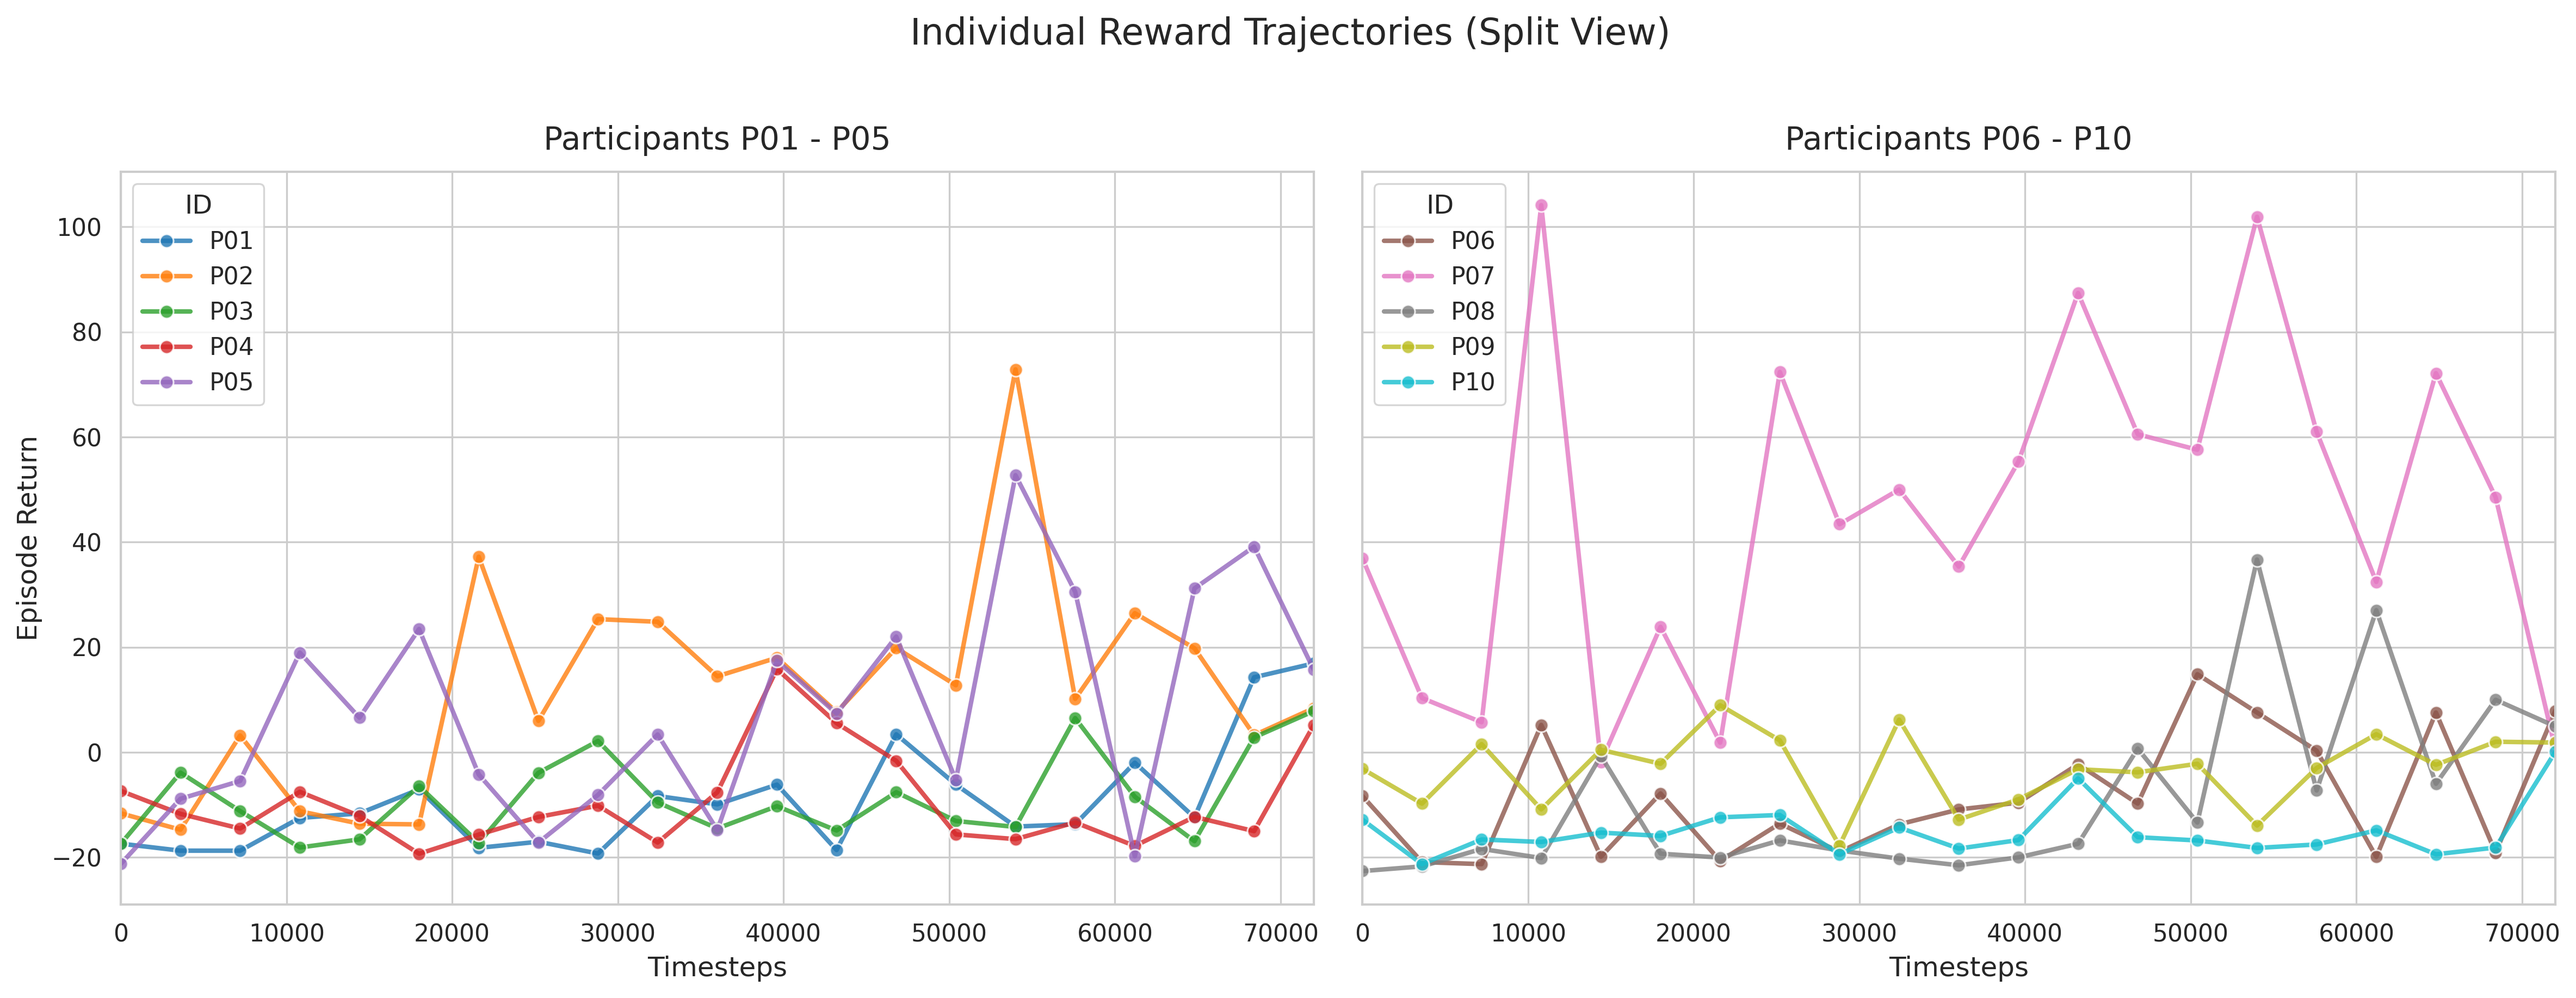
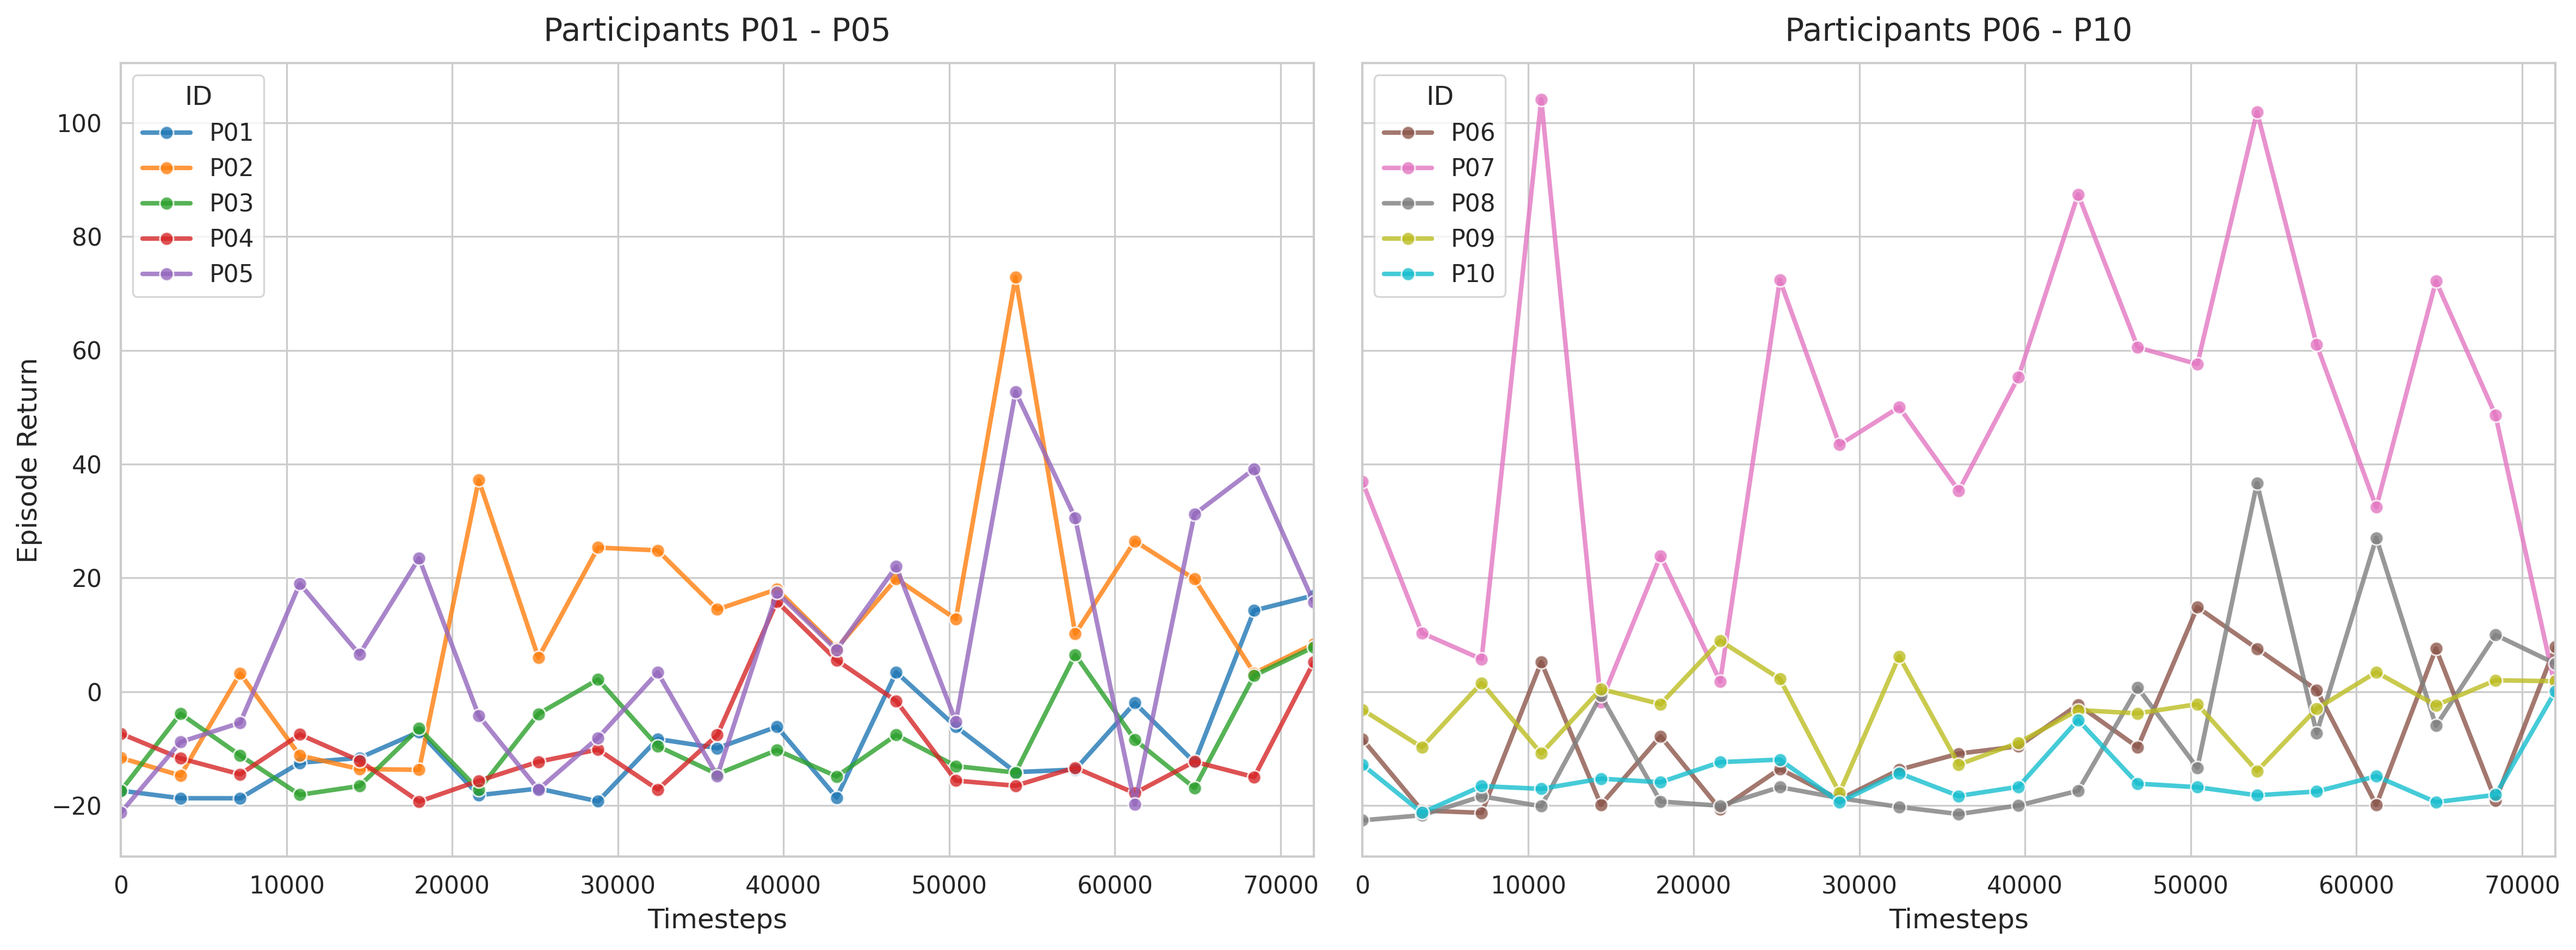
Upload individual reward plot code

diff --git a/plot/plot_individual_reward.py b/plot/plot_individual_reward.py
@@ -88,8 +88,6 @@ for i, ax in enumerate(axes):
 
     ax.legend(title='ID', loc='upper left')
 
-plt.suptitle('Individual Reward Trajectories (Split View)', fontsize=16, y=1.02)
-
 plt.tight_layout()
 plt.savefig('plot_individual_reward_split.png', dpi=300, bbox_inches='tight')
 plt.show()
